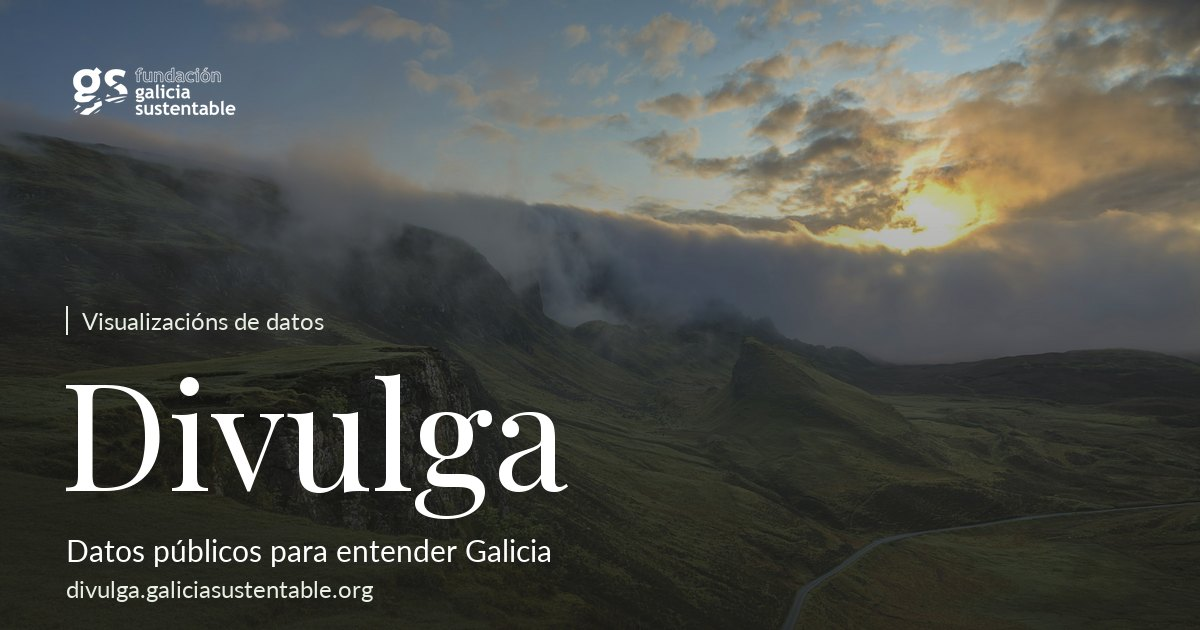
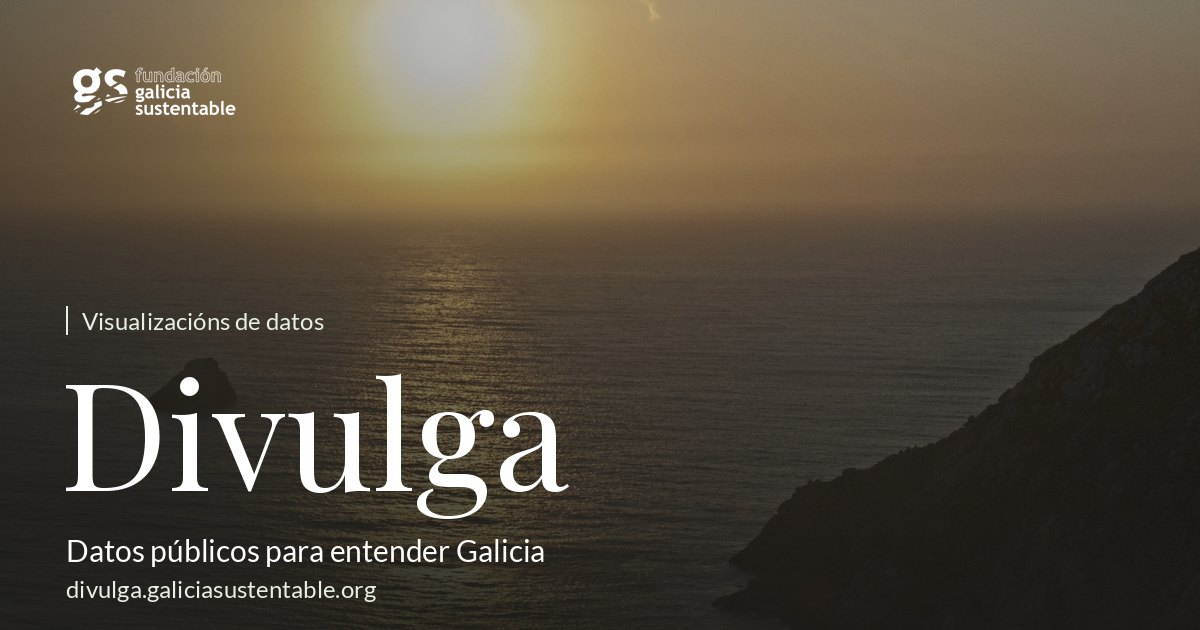
Substitúe a foto de Skye por unha foto real de Galicia (Cabo Fisterra)
heroe-1200/2400.jpg e og-divulga.jpg usaban unha foto de stock de
Quiraing (Illa de Skye, Escocia) — apuntado como pendente dende a
auditoría inicial. Substituída por un solpor en Cabo Fisterra de
Arm.arte (Wikimedia Commons, CC BY-SA 3.0), recortada ás mesmas
dimensións (2400x1430 / 1200x715) para que o resto do deseño (obxecto
de posición, degradado) non precise cambios. Engádese un pequeno
crédito na propia banda, como esixe a licenza.

diff --git a/index.html b/index.html
@@ -74,6 +74,10 @@ nav.topo-nav a:hover{color:#fff}
 .heroe h1{margin:0;font-family:var(--dv-display);font-weight:700;font-size:clamp(2.6rem,9vw,5.2rem);line-height:1;color:#fff}
 .heroe .sub{margin:12px 0 4px;font-size:clamp(1rem,1.8vw,1.2rem);color:#fff}
 .heroe .url{margin:0;font-size:.82rem;color:rgba(255,255,255,.78)}
+.heroe .credito{position:absolute;right:14px;bottom:10px;margin:0;font-size:.68rem;color:rgba(255,255,255,.55)}
+.heroe .credito a{color:inherit;text-decoration:underline}
+.heroe .credito a:hover{color:#fff}
+@media (max-width:640px){.heroe .credito{display:none}}
 .meta-conta{padding-block:clamp(16px,3vw,24px);font-size:.78rem;color:var(--dv-tinta-60)}
 .meta-conta b{color:var(--dv-tinta);font-weight:700}
 @media (max-width:640px){.heroe .marco{aspect-ratio:3/4}}
@@ -141,7 +145,7 @@ footer.pe a:hover{color:var(--dv-acento)}
 
 <section class="heroe">
   <div class="marco">
-    <img src="assets/img/heroe-1200.jpg" srcset="assets/img/heroe-1200.jpg 1200w, assets/img/heroe-2400.jpg 2400w" sizes="100vw" alt="" width="2400" height="1430" loading="eager">
+    <img src="assets/img/heroe-1200.jpg" srcset="assets/img/heroe-1200.jpg 1200w, assets/img/heroe-2400.jpg 2400w" sizes="100vw" alt="Solpor en Cabo Fisterra, Galicia" width="2400" height="1430" loading="eager">
     <div class="veo" aria-hidden="true"></div>
     <div class="contido inner">
       <img class="logo" src="assets/logos/logo-fgs-horizontal-branco.png" alt="Fundación Galicia Sustentable" width="94" height="40">
@@ -150,6 +154,7 @@ footer.pe a:hover{color:var(--dv-acento)}
       <p class="sub">Datos públicos para entender Galicia</p>
       <p class="url">divulga.galiciasustentable.org</p>
     </div>
+    <p class="credito">Foto: <a href="https://commons.wikimedia.org/wiki/File:Fisterra_ocaso_en_el_cabo.jpg">Arm.arte</a>, <a href="https://creativecommons.org/licenses/by-sa/3.0">CC BY-SA 3.0</a></p>
   </div>
 </section>
 

diff --git a/templates/index.tpl.html b/templates/index.tpl.html
@@ -74,6 +74,10 @@ nav.topo-nav a:hover{color:#fff}
 .heroe h1{margin:0;font-family:var(--dv-display);font-weight:700;font-size:clamp(2.6rem,9vw,5.2rem);line-height:1;color:#fff}
 .heroe .sub{margin:12px 0 4px;font-size:clamp(1rem,1.8vw,1.2rem);color:#fff}
 .heroe .url{margin:0;font-size:.82rem;color:rgba(255,255,255,.78)}
+.heroe .credito{position:absolute;right:14px;bottom:10px;margin:0;font-size:.68rem;color:rgba(255,255,255,.55)}
+.heroe .credito a{color:inherit;text-decoration:underline}
+.heroe .credito a:hover{color:#fff}
+@media (max-width:640px){.heroe .credito{display:none}}
 .meta-conta{padding-block:clamp(16px,3vw,24px);font-size:.78rem;color:var(--dv-tinta-60)}
 .meta-conta b{color:var(--dv-tinta);font-weight:700}
 @media (max-width:640px){.heroe .marco{aspect-ratio:3/4}}
@@ -141,7 +145,7 @@ footer.pe a:hover{color:var(--dv-acento)}
 
 <section class="heroe">
   <div class="marco">
-    <img src="assets/img/heroe-1200.jpg" srcset="assets/img/heroe-1200.jpg 1200w, assets/img/heroe-2400.jpg 2400w" sizes="100vw" alt="" width="2400" height="1430" loading="eager">
+    <img src="assets/img/heroe-1200.jpg" srcset="assets/img/heroe-1200.jpg 1200w, assets/img/heroe-2400.jpg 2400w" sizes="100vw" alt="Solpor en Cabo Fisterra, Galicia" width="2400" height="1430" loading="eager">
     <div class="veo" aria-hidden="true"></div>
     <div class="contido inner">
       <img class="logo" src="assets/logos/logo-fgs-horizontal-branco.png" alt="Fundación Galicia Sustentable" width="94" height="40">
@@ -150,6 +154,7 @@ footer.pe a:hover{color:var(--dv-acento)}
       <p class="sub">Datos públicos para entender Galicia</p>
       <p class="url">divulga.galiciasustentable.org</p>
     </div>
+    <p class="credito">Foto: <a href="https://commons.wikimedia.org/wiki/File:Fisterra_ocaso_en_el_cabo.jpg">Arm.arte</a>, <a href="https://creativecommons.org/licenses/by-sa/3.0">CC BY-SA 3.0</a></p>
   </div>
 </section>
 

diff --git a/README.md b/README.md
@@ -95,7 +95,10 @@ exemplo, coa vista previa local) a páxina funciona e oculta a votación.
 ## Imaxe de marca
 
 `assets/img/heroe-1200.jpg`/`heroe-2400.jpg` son a foto da banda da portada
-(srcset responsive). `assets/img/og-divulga.jpg` é a imaxe para compartir en
+(srcset responsive): solpor en Cabo Fisterra, de
+[Arm.arte en Wikimedia Commons](https://commons.wikimedia.org/wiki/File:Fisterra_ocaso_en_el_cabo.jpg),
+licenza CC BY-SA 3.0 — a atribución vai nun pequeno crédito na propia banda
+(`.heroe .credito`). `assets/img/og-divulga.jpg` é a imaxe para compartir en
 redes, xerada con `scripts/og.py` (Pillow + Playfair Display e Lato) a partir
 de `heroe-2400.jpg`, co mesmo tratamento que a portada de
 fundaciongaliciasustentable.gal:
@@ -104,10 +107,9 @@ fundaciongaliciasustentable.gal:
 python3 scripts/og.py <PlayfairDisplay[wght].ttf> <Lato-Regular.ttf>
 ```
 
-> **Pendente**: `heroe-2400.jpg` é unha foto de stock de Quiraing (Illa de
-> Skye, Escocia), non de Galicia. Mentres non se substitúa por unha foto real
-> de Galicia con licenza, tanto a banda da portada como `og-divulga.jpg`
-> seguen usándoa.
+Ao cambiar a foto, actualiza tamén a ligazón e a autoría do crédito en
+`templates/index.tpl.html` (`.heroe .credito`) e en `og.py` se cambia o
+recorte, e rexenera `og-divulga.jpg`.
 
 ## Visualizacións
 
